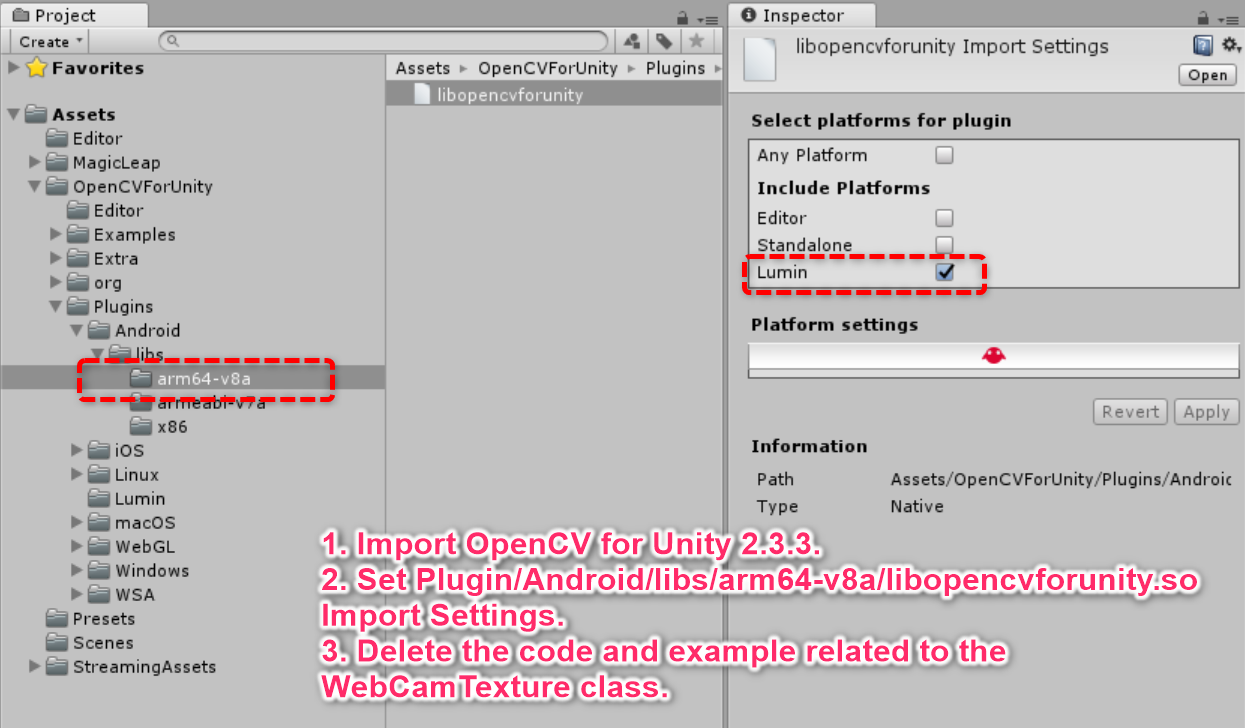
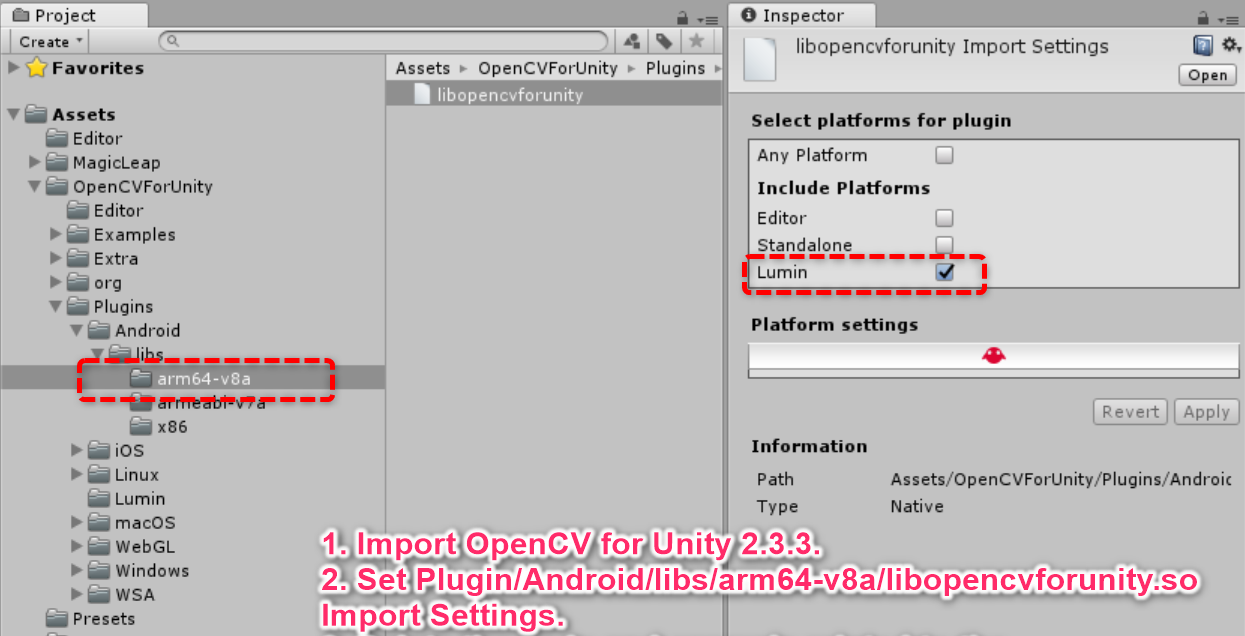
update README.md

diff --git a/README.md b/README.md
@@ -10,12 +10,18 @@
 ## Setup
 1. Download the latest release unitypackage. [MagicLeapWithOpenCVForUnityExample.unitypackage](https://github.com/EnoxSoftware/MagicLeapWithOpenCVForUnityExample/releases)
 1. Create a new project. (MagicLeapWithOpenCVForUnityExample)
+1. Import "C:/Users/xxx/MagicLeap/tools/unity/v0.19.0/MagicLeap.unitypackage"
 1. Import the OpenCVForUnity.
     * Setup the OpenCVForUnity. (Tools > OpenCV for Unity > Set Plugin Import Settings)
     * Set "Assets/OpenCVForUnity/Plugin/Android/libs/arm64-v8a/libopencvforunity.so" Import Settings.
-    * Enclose the code related to the WebCamTexture class with #if UNITY_EDITOR and #endif.
-    * Downlod https://raw.githubusercontent.com/pjreddie/darknet/master/cfg/yolov3-tiny.cfg. Copy yolov3-tiny.cfg to "Assets/StreamingAssets/dnn/" folder. Downlod  https://pjreddie.com/media/files/yolov3-tiny.weights. Copy yolov3-tiny.weights to "Assets/StreamingAssets/dnn/" folder. Downlod  https://github.com/pjreddie/darknet/tree/master/data/coco.names. Copy coco.names to "Assets/StreamingAssets/dnn/" folder. 
     ![magicleap_settings.png](magicleap_settings.png)
+    * Enclose the code related to the WebCamTexture class with #if UNITY_EDITOR and #endif. ( The WebCamTexture class is not included in the MagicLeap API, so an error occurs at build time. )
+    ![enclose_utils.png](enclose_utils.png)
+    Assets/OpenCVForUnity/org/opencv/unity/Utils.cs
+    ![enclose_webcamtexturetomathelper.png](enclose_webcamtexturetomathelper.png)
+    Assets/OpenCVForUnity/org/opencv/unity/helper/WebCamTextureToMatHelper.cs
+    * Delete "Assets/OpenCVForUnity/Examples" folder.
+    * Downlod https://raw.githubusercontent.com/pjreddie/darknet/master/cfg/yolov3-tiny.cfg. Copy yolov3-tiny.cfg to "Assets/StreamingAssets/dnn/" folder. Downlod  https://pjreddie.com/media/files/yolov3-tiny.weights. Copy yolov3-tiny.weights to "Assets/StreamingAssets/dnn/" folder. Downlod  https://github.com/pjreddie/darknet/tree/master/data/coco.names. Copy coco.names to "Assets/StreamingAssets/dnn/" folder.     
 1. Import the MagicLeapWithOpenCVForUnityExample.unitypackage.
 1. Add the "Assets/MagicLeapWithOpenCVForUnityExample/*.unity" files to the "Scenes In Build" list in the "Build Settings" window.
 1. Check CameraCapture checkbox in Publishing Settings.
